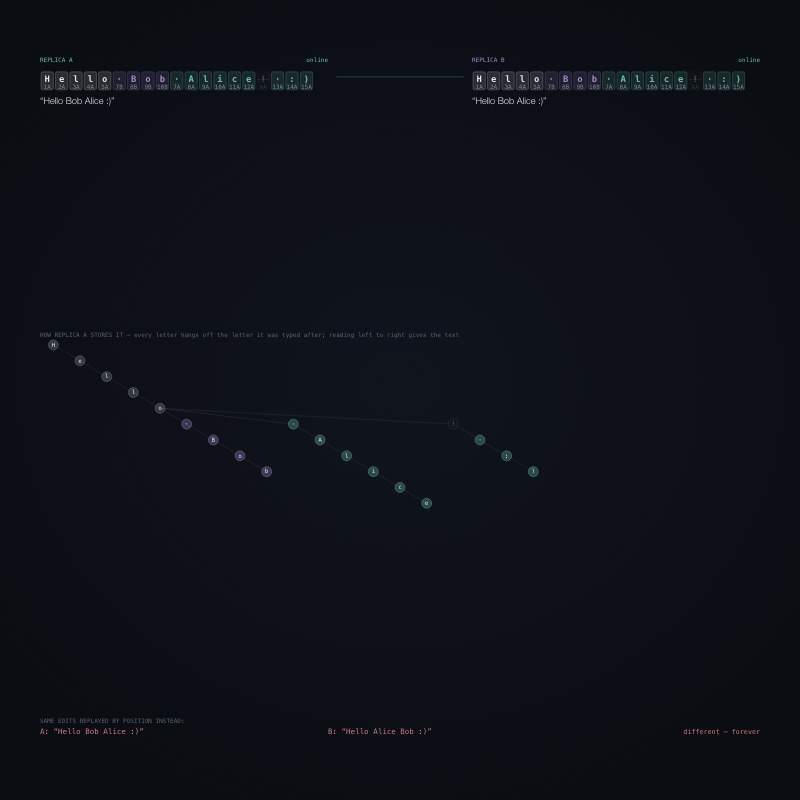
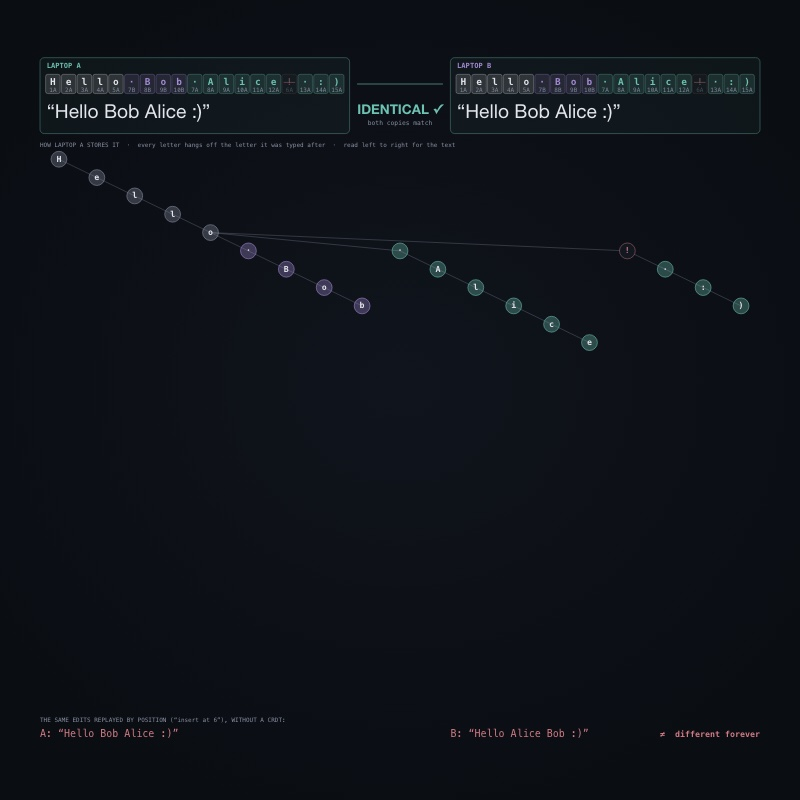
crdt: clearer at a glance — large replica panels with offline/syncing/identical states, taps respond at once
Regenerated from the Data Structures project after a review of every scene's
first minute: fuller stage, larger text, the payoff sooner, and phone taps that
show within a second (the in-flight operation completes instantly first).

diff --git a/experiences/crdt/web/js/scenes/crdt.js b/experiences/crdt/web/js/scenes/crdt.js
@@ -45,7 +45,8 @@
     duration: 70,
     idea: "Two people edit offline — when they reconnect, both copies match. No server needed.",
     glance: 1,
-    legend: [["teal", "typed on laptop A"], ["violet", "typed on laptop B"], ["rose", "deleted (kept as a ghost)"]],
+    preempt: false,          // interrupts its own operations safely (see act)
+    legend: [["teal", "typed on laptop A"], ["violet", "typed on laptop B"], ["rose", "deleted (kept as a ghost)"], ["amber", "edits in flight"]],
     notes: [
       'Each letter gets a permanent name: a counter plus who typed it. New letters are placed “after” a named letter, never at a numbered position.',
       'If two people insert at the same spot, both copies use the same tie-break — the bigger name goes first — so they agree without talking.',
@@ -73,6 +74,8 @@
       this.naive = null;
       this.showTree = true;
       this.phase = 0;
+      this.flash = 0;
+      this.lastState = null;
       this.seed('Hello!');
     },
 
@@ -88,8 +91,9 @@
     },
 
     // type `word` on replica r, starting after the visible char at index `at`
-    *typeGen(r, word, at) {
+    *typeGen(r, word, at, quiet) {
       const R = this.R[r];
+      if (!quiet) DS.say(`laptop ${r} types “${word.trim()}”${this.online === false || this.state === 'offline' ? ' — offline, so only its own copy changes' : ''}`);
       const vis = R.list.filter((e) => !e.del);
       let anchor = at < 0 ? null : vis[at].id;
       let idx = at + 1;
@@ -124,17 +128,19 @@
       const A = this.R.A, B = this.R.B;
       const aOps = A.out.splice(0), bOps = B.out.splice(0);
       const naiveA = (A.naiveOps || []).splice(0), naiveB = (B.naiveOps || []).splice(0);
+      // Everything goes on the wire at once (staggered by a start delay), so
+      // an interrupted sync can never lose an edit.
       const n = Math.max(aOps.length, bOps.length);
       for (let k = 0; k < n; k++) {
-        if (aOps[k]) this.wire.push({ op: aOps[k], from: 'A', to: 'B', t: 0 });
-        if (bOps[k]) this.wire.push({ op: bOps[k], from: 'B', to: 'A', t: 0 });
-        yield 0.18;
+        if (aOps[k]) this.wire.push({ op: aOps[k], from: 'A', to: 'B', t: -k * 0.2 });
+        if (bOps[k]) this.wire.push({ op: bOps[k], from: 'B', to: 'A', t: -k * 0.2 });
       }
-      yield 1.2;
       // naive: replay the other side's index-based edits onto this side's text
       const replay = (txt, ops) => ops.reduce((s, o) => (o.type === 'ins' ? s.slice(0, o.i) + o.ch + s.slice(o.i) : s.slice(0, o.i) + s.slice(o.i + 1)), txt);
-      this.naive = { A: replay(A.naive, naiveB), B: replay(B.naive, naiveA) };
-      A.naive = this.naive.A; B.naive = this.naive.B;
+      A.naive = replay(A.naive, naiveB); B.naive = replay(B.naive, naiveA);
+      while (this.wire.some((w) => !w.done)) yield 0.1;
+      yield 0.4;
+      this.naive = { A: A.naive, B: B.naive };
       const same = text(A) === text(B);
       DS.say(same ? `both copies now read “${text(A)}”  ·  identical, with every word in one piece` : 'still syncing…', same ? 'good' : '');
       yield 3;
@@ -142,12 +148,13 @@
 
     *storyGen() {
       this.reset();
+      this.inStory = true;
       DS.say('one document, two copies — on two laptops');
       yield 1.8;
       this.online = false;
       DS.say('the Wi-Fi drops  ·  both keep typing, in the same spot');
       yield 1.2;
-      const a = this.typeGen('A', ' Alice', 4), b = this.typeGen('B', ' Bob', 4);
+      const a = this.typeGen('A', ' Alice', 4, true), b = this.typeGen('B', ' Bob', 4, true);
       for (;;) { const x = a.next(), y = b.next(); if (x.done && y.done) break; yield 0.24; }
       DS.say(`A sees “${text(this.R.A)}”   ·   B sees “${text(this.R.B)}”`, 'warn');
       yield 2;
@@ -159,15 +166,19 @@
       yield 1.2;
       const visB = text(this.R.B);
       yield* this.deleteGen('B', visB.length - 1);
-      yield* this.typeGen('A', ' :)', text(this.R.A).length - 1);
+      yield* this.typeGen('A', ' :)', text(this.R.A).length - 1, true);
       yield 1.2;
       yield* this.syncGen();
       DS.say(`“!” is gone, but its tombstone still anchors A’s “ :)”  ·  both read “${text(this.R.A)}”`, 'good');
       yield 3.5;
+      this.inStory = false;
     },
 
     act(id) {
       const s = this.steps;
+      // a visitor's edit takes over from the scripted story at once, keeping
+      // the document as it stands (every edit is already integrated or on the wire)
+      if (id !== 'play' && this.inStory) { s.clear(); this.inStory = false; }
       if (s.length > 2) return;
       if (id === 'play') { s.clear(); s.run(() => this.storyGen()); }
       else if (id === 'sync') s.run(() => this.syncGen());
@@ -187,7 +198,20 @@
       this.steps.hold(2);
     },
 
+    // offline · syncing · identical · (online but not yet matching)
+    state() {
+      const A = this.R.A, B = this.R.B;
+      if (!this.online) return 'offline';
+      if (this.wire.some((w) => !w.done) || A.out.length || B.out.length) return 'syncing';
+      return text(A) === text(B) ? 'identical' : 'online';
+    },
+
+    panelW() { const S = DS.stage; return (S.w - Math.max(230 * DS.u, S.w * 0.14)) / 2; },
+    // letter-box width: shrinks as the text grows, eased so boxes never pop
+    cellW() { const n = Math.max(14, this.R.A.list.length, this.R.B.list.length); return Math.min(64 * DS.u, (this.panelW() - 24 * DS.u) / n); },
+
     update(dt, auto) {
+      this.dt = dt;
       this.steps.update(dt);
       if (auto && !this.steps.busy) this.auto();
       for (const w of this.wire) {
@@ -196,81 +220,132 @@
       }
       this.wire = this.wire.filter((w) => w.t < 1.2);
       for (const r of Object.values(this.R)) r.list.forEach((e) => { e.al = DS.ease(e.al, 1, dt, 6); });
+      // a flash the moment the two copies become identical again
+      const st = this.state();
+      if (st === 'identical' && this.lastState && this.lastState !== 'identical') this.flash = 1;
+      this.lastState = st;
+      this.cwE = this.cwE ? DS.ease(this.cwE, this.cellW(), dt, 5) : this.cellW();
+      this.flash = DS.ease(this.flash || 0, 0, dt, 1.1);
     },
 
     draw(g) {
       const S = DS.stage, u = DS.u;
-      const pw = S.w * 0.4;
+      const st = this.state();
+      const stCol = { offline: C.rose, syncing: C.amber, identical: C.teal, online: C.dim }[st];
+      const pw = this.panelW();
       const px = { A: S.x, B: S.x1 - pw };
-      const py = S.y + 10 * u;
-      const cw = Math.min(50 * u, pw / 20);
+      const py = S.y + 4 * u;
+      const cw = this.cwE || this.cellW();
+      const bh = cw * 1.22;
+      const by = py + 40 * u;                        // letter-box row
+      const ry = by + bh + 44 * u;                   // big readout
+      const panelH = ry - py + 52 * u;
+
+      const fit = (s, size, maxW, weight) => {
+        g.font = DS.font(size, { weight });
+        const w = g.measureText(s).width;
+        return w > maxW ? Math.max(14 * u, size * maxW / w) : size;
+      };
 
       const drawDoc = (r) => {
         const R = this.R[r], x0 = px[r];
-        DS.text(g, `REPLICA ${r}`, x0, py, { size: 13 * u, mono: true, color: REP[r].col, align: 'left' });
-        DS.text(g, this.online ? 'online' : 'offline', x0 + pw, py, { size: 13 * u, mono: true, color: this.online ? C.teal : C.rose, align: 'right' });
-        let i = 0;
-        for (const e of R.list) {
-          const x = x0 + i * cw, y = py + 28 * u;
+        // the panel: its border says the connection state
+        const off = st === 'offline';
+        g.setLineDash(off ? [10 * u, 8 * u] : []);
+        DS.box(g, x0, py, pw, panelH, 10 * u, DS.rgba(stCol, 0.05 + 0.12 * this.flash), DS.rgba(stCol, 0.55), (1.5 + 2 * this.flash) * u);
+        g.setLineDash([]);
+        DS.text(g, `LAPTOP ${r}`, x0 + 16 * u, py + 20 * u, { size: 17 * u, mono: true, weight: 600, color: REP[r].col, align: 'left' });
+        if (R.out.length) DS.text(g, `${R.out.length} edit${R.out.length === 1 ? '' : 's'} waiting to send`, x0 + pw - 16 * u, py + 20 * u, { size: 15 * u, mono: true, color: C.amber, align: 'right' });
+        const x1 = x0 + 12 * u;
+        const ids = cw >= 34 * u;
+        R.list.forEach((e, i) => {
+          const x = x1 + i * cw;
           const col = e.by === 'A' ? C.teal : e.by === 'B' ? C.violet : C.ink;
-          g.globalAlpha = e.al * (e.del ? 0.3 : 1);
-          DS.box(g, x + 1, y, cw - 2, cw * 1.25, 4 * u, DS.rgba(col, e.del ? 0.05 : 0.14), DS.rgba(col, e.del ? 0.3 : 0.5), 1 * u);
-          DS.text(g, e.ch === ' ' ? '·' : e.ch, x + cw / 2, y + cw * 0.55, { size: cw * 0.62, mono: true, weight: 600, color: col });
-          DS.text(g, `${e.id[0]}${e.id[1]}`, x + cw / 2, y + cw * 1.1, { size: cw * 0.24, mono: true, color: DS.rgba(C.dim, 0.9) });
-          if (e.del) DS.line(g, x + 3 * u, y + cw * 0.55, x + cw - 3 * u, y + cw * 0.55, C.rose, 1.5 * u);
+          g.globalAlpha = e.al * (e.del ? 0.45 : 1);
+          DS.box(g, x + 1.5 * u, by, cw - 3 * u, bh, 5 * u, DS.rgba(col, e.del ? 0.04 : 0.14), DS.rgba(e.del ? C.rose : col, e.del ? 0.5 : 0.55), 1.2 * u);
+          const cy = ids ? by + bh * 0.42 : by + bh / 2;
+          DS.text(g, e.ch === ' ' ? '·' : e.ch, x + cw / 2, cy, { size: cw * 0.6, mono: true, weight: 600, color: e.del ? C.rose : col });
+          if (ids) DS.text(g, `${e.id[0]}${e.id[1]}`, x + cw / 2, by + bh * 0.83, { size: Math.max(10.5 * u, cw * 0.24), mono: true, color: DS.rgba(C.dim, 0.9) });
+          if (e.del) DS.line(g, x + 5 * u, cy, x + cw - 5 * u, cy, C.rose, 2 * u);
           g.globalAlpha = 1;
-          i++;
-        }
-        DS.text(g, `“${text(R)}”`, x0, py + 28 * u + cw * 1.25 + 26 * u, { size: 22 * u, weight: 300, color: C.ink, align: 'left' });
-        if (R.out.length) DS.text(g, `${R.out.length} edit${R.out.length === 1 ? '' : 's'} waiting to send`, x0, py + 28 * u + cw * 1.25 + 52 * u, { size: 13 * u, mono: true, color: C.amber, align: 'left' });
+        });
+        // the text itself, as a person would read it: the heart of the scene
+        const words = `“${text(R)}”`;
+        const fs = fit(words, 46 * u, pw - 32 * u, 400);
+        DS.text(g, words, x0 + 16 * u, ry, { size: fs, weight: 400, color: C.ink, align: 'left' });
       };
       drawDoc('A');
       drawDoc('B');
 
-      // the wire
-      const wy = py + 40 * u;
-      const wx0 = S.x + pw + 20 * u, wx1 = S.x1 - pw - 20 * u;
-      g.setLineDash(this.online ? [] : [6 * u, 6 * u]);
-      DS.line(g, wx0, wy, wx1, wy, DS.rgba(this.online ? C.teal : C.rose, 0.45), 1.5 * u);
+      // the middle: the connection, and a state you can read from the back of the room
+      const mx0 = S.x + pw + 18 * u, mx1 = S.x1 - pw - 18 * u, mcx = (mx0 + mx1) / 2;
+      const wy = by + bh / 2;
+      g.setLineDash(st === 'offline' ? [8 * u, 10 * u] : []);
+      DS.line(g, mx0, wy, mx1, wy, DS.rgba(stCol, 0.6), 2.5 * u);
       g.setLineDash([]);
-      for (const w of this.wire) {
-        const t = Math.min(1, w.t);
-        const x = w.from === 'A' ? DS.lerp(wx0, wx1, t) : DS.lerp(wx1, wx0, t);
-        const y = wy + (w.from === 'A' ? -10 : 10) * u;
-        DS.box(g, x - 10 * u, y - 9 * u, 20 * u, 18 * u, 4 * u, DS.rgba(REP[w.from].col, 0.3), REP[w.from].col, 1 * u);
-        DS.text(g, w.op.type === 'del' ? '✕' : w.op.ch === ' ' ? '·' : w.op.ch, x, y, { size: 13 * u, mono: true, color: C.ink });
+      if (st === 'offline') {
+        // a visible break in the wire
+        DS.box(g, mcx - 22 * u, wy - 16 * u, 44 * u, 32 * u, 6 * u, C.bg, null);
+        DS.text(g, '✕', mcx, wy, { size: 24 * u, weight: 700, color: C.rose });
       }
+      for (const w of this.wire) {
+        if (w.t < 0) continue;
+        const t = DS.smooth(Math.min(1, w.t));
+        const x = w.from === 'A' ? DS.lerp(mx0, mx1, t) : DS.lerp(mx1, mx0, t);
+        const y = wy + (w.from === 'A' ? -18 : 18) * u;
+        g.globalAlpha = w.t > 1 ? Math.max(0, 1 - (w.t - 1) * 5) : 1;
+        DS.box(g, x - 15 * u, y - 14 * u, 30 * u, 28 * u, 5 * u, DS.rgba(REP[w.from].col, 0.35), REP[w.from].col, 1.2 * u);
+        DS.text(g, w.op.type === 'del' ? '✕' : w.op.ch === ' ' ? '·' : w.op.ch, x, y, { size: 18 * u, mono: true, weight: 600, color: C.ink });
+        g.globalAlpha = 1;
+      }
+      const label = { offline: 'OFFLINE', syncing: 'SYNCING…', identical: 'IDENTICAL ✓', online: 'ONLINE' }[st];
+      const sub = { offline: 'each laptop edits alone', syncing: 'swapping edits', identical: 'both copies match', online: '' }[st];
+      const ly = ry - 6 * u;
+      if (this.flash > 0.05) DS.halo(g, mcx, ly, 150 * u, C.teal, 0.35 * this.flash);
+      DS.text(g, label, mcx, ly, { size: fit(label, 36 * u, mx1 - mx0, 700), weight: 700, color: stCol });
+      if (sub) DS.text(g, sub, mcx, ly + 34 * u, { size: 15 * u, mono: true, color: C.dim });
 
-      // the insertion tree (replica A's view): x = position in the document, y = depth
+      // the insertion tree (laptop A's copy): x = position in the document, y = depth
       const R = this.R.A;
-      const ty0 = S.y + S.h * 0.42, tx0 = S.x;
-      const pos = new Map();
+      const naiveH = this.naive ? 76 * u : 0;
+      const ty0 = py + panelH + 62 * u, ty1 = S.y1 - naiveH - 22 * u;
       const depth = new Map();
       R.list.forEach((e) => { const d = e.anchor ? (depth.get(key(e.anchor)) ?? 0) + 1 : 0; depth.set(key(e.id), d); });
       const maxD = Math.max(1, ...depth.values());
-      const tcw = Math.min(64 * u, S.w / Math.max(R.list.length, 16));
-      const tlh = Math.min(38 * u, (S.y1 - 110 * u - ty0) / maxD);
-      R.list.forEach((e, i) => pos.set(key(e.id), [tx0 + (i + 0.5) * tcw, ty0 + depth.get(key(e.id)) * tlh]));
-      DS.text(g, 'HOW REPLICA A STORES IT — every letter hangs off the letter it was typed after; reading left to right gives the text', tx0, ty0 - 22 * u, { size: 12 * u, mono: true, color: C.mute, align: 'left' });
+      const tcw = Math.min(96 * u, S.w / Math.max(R.list.length, 12));
+      const tlh = Math.min(44 * u, (ty1 - ty0) / maxD);
+      const nr = Math.max(11 * u, Math.min(19 * u, tcw * 0.36, tlh * 0.7));
+      const tx0 = S.cx - (R.list.length * tcw) / 2;
+      const pos = new Map();
+      const k = 1 - Math.exp(-7 * (this.dt || 0));   // ease nodes to their new places as letters arrive
+      R.list.forEach((e, i) => {
+        const x = tx0 + (i + 0.5) * tcw, y = ty0 + depth.get(key(e.id)) * tlh;
+        if (e.tx === undefined) { e.tx = x; e.ty = y; } else { e.tx += (x - e.tx) * k; e.ty += (y - e.ty) * k; }
+        pos.set(key(e.id), [e.tx, e.ty]);
+      });
+      DS.text(g, 'HOW LAPTOP A STORES IT  ·  every letter hangs off the letter it was typed after  ·  read left to right for the text', S.x, ty0 - 34 * u, { size: 14 * u, mono: true, color: C.dim, align: 'left' });
       R.list.forEach((e) => {
         const [x, y] = pos.get(key(e.id));
-        if (e.anchor) { const [ax, ay] = pos.get(key(e.anchor)); DS.line(g, ax, ay, x, y, DS.rgba(C.dim, 0.3), 1 * u); }
+        if (e.anchor) { const [ax, ay] = pos.get(key(e.anchor)); DS.line(g, ax, ay, x, y, DS.rgba(C.dim, 0.45), 1.6 * u); }
       });
       R.list.forEach((e) => {
         const [x, y] = pos.get(key(e.id));
         const col = e.by === 'A' ? C.teal : e.by === 'B' ? C.violet : C.dim;
-        DS.circle(g, x, y, 12 * u, e.del ? C.cell : DS.rgba(col, 0.3), DS.rgba(col, e.del ? 0.3 : 0.8), 1 * u);
-        DS.text(g, e.ch === ' ' ? '·' : e.ch, x, y + 0.5 * u, { size: 13 * u, mono: true, color: e.del ? C.mute : C.ink });
+        g.globalAlpha = e.al;
+        DS.circle(g, x, y, nr, e.del ? C.cell : DS.rgba(col, 0.32), e.del ? DS.rgba(C.rose, 0.7) : DS.rgba(col, 0.9), 1.5 * u);
+        DS.text(g, e.ch === ' ' ? '·' : e.ch, x, y + 0.5 * u, { size: nr * 1.05, mono: true, weight: 600, color: e.del ? C.rose : C.ink });
+        g.globalAlpha = 1;
       });
 
       // naive comparison
       if (this.naive) {
-        const ny = S.y1 - 34 * u;
+        const ny = S.y1 - 22 * u;
         const same = this.naive.A === this.naive.B;
-        DS.text(g, 'SAME EDITS REPLAYED BY POSITION INSTEAD:', S.x, ny - 20 * u, { size: 12 * u, mono: true, color: C.mute, align: 'left' });
-        DS.text(g, `A: “${this.naive.A}”`, S.x, ny + 6 * u, { size: 18 * u, mono: true, color: same ? C.ink : C.rose, align: 'left' });
-        DS.text(g, `B: “${this.naive.B}”`, S.x + S.w * 0.4, ny + 6 * u, { size: 18 * u, mono: true, color: same ? C.ink : C.rose, align: 'left' });
-        DS.text(g, same ? 'same' : 'different — forever', S.x1, ny + 6 * u, { size: 16 * u, mono: true, color: same ? C.teal : C.rose, align: 'right' });
+        const nc = same ? C.ink : C.rose;
+        DS.text(g, 'THE SAME EDITS REPLAYED BY POSITION (“insert at 6”), WITHOUT A CRDT:', S.x, ny - 34 * u, { size: 14 * u, mono: true, color: C.dim, align: 'left' });
+        DS.text(g, `A: “${this.naive.A}”`, S.x, ny, { size: fit(`A: “${this.naive.A}”`, 24 * u, pw, 400), mono: true, color: nc, align: 'left' });
+        DS.text(g, `B: “${this.naive.B}”`, px.B, ny, { size: fit(`B: “${this.naive.B}”`, 24 * u, pw * 0.62, 400), mono: true, color: nc, align: 'left' });
+        DS.text(g, same ? 'same' : '≠  different forever', S.x1, ny, { size: 20 * u, mono: true, weight: 600, color: same ? C.teal : C.rose, align: 'right' });
       }
     },
 

diff --git a/experiences/crdt/web/js/main.js b/experiences/crdt/web/js/main.js
@@ -247,6 +247,10 @@
       if (st.pending >= 0 || !(s.actions || []).some((a) => a.id === id)) return false;
       activity();
       st.autoHold = st.t + 14;   // let the visitor's op play out before autoplay resumes
+      // A tap must show within a second: finish whatever is mid-flight and start
+      // the visitor's action now. Scenes that manage interruption themselves
+      // (a scripted story, say) set `preempt: false`.
+      if (s.preempt !== false && s.steps && s.steps.preempt) s.steps.preempt();
       s.act(id);
       return true;
     },
@@ -396,7 +400,7 @@
   renderMode();
   const warp = Math.min(600, parseFloat(params.get('warp')) || 0);
   for (let t = 0; t < warp; t += 1 / 30) { DS.time = st.t += 1 / 30; cur().update(1 / 30, true); }
-  if (warp) st.fade = 1;
+  if (warp) { st.fade = 1; if (opPending) { const [t, tone] = opPending; opPending = null; showOp(t, tone); } }
   if (params.has('clean')) document.querySelectorAll('.hud').forEach((e) => { e.style.display = 'none'; });
   requestAnimationFrame(frame);
 })();

diff --git a/experiences/crdt/web/js/core.js b/experiences/crdt/web/js/core.js
@@ -138,6 +138,21 @@
     clear() { this.q.length = 0; this.wait = 0; }
     run(job) { this.q.push(job); return this; }
     hold(s) { this.q.push(() => s); return this; }
+    // Make room for a visitor: finish the operation in flight instantly (so the
+    // structure is never left half-changed), and drop queued work that hasn't
+    // started. Generators are run to completion with their holds skipped.
+    preempt() {
+      const head = this.q[0];
+      this.q.length = 0;
+      this.wait = 0;
+      if (head && typeof head.next === 'function') {
+        for (let guard = 0; guard < 100000; guard++) {
+          const { value, done } = head.next();
+          if (done) break;
+          if (value && typeof value.next === 'function') { /* nested generator objects are driven by yield* already */ }
+        }
+      }
+    }
     update(dt) {
       this.wait -= dt;
       let guard = 0;
